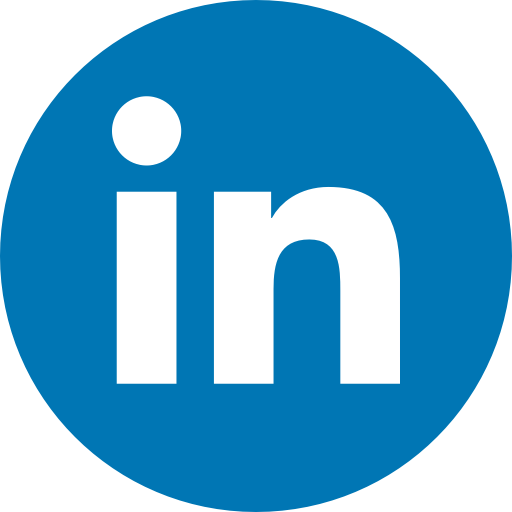
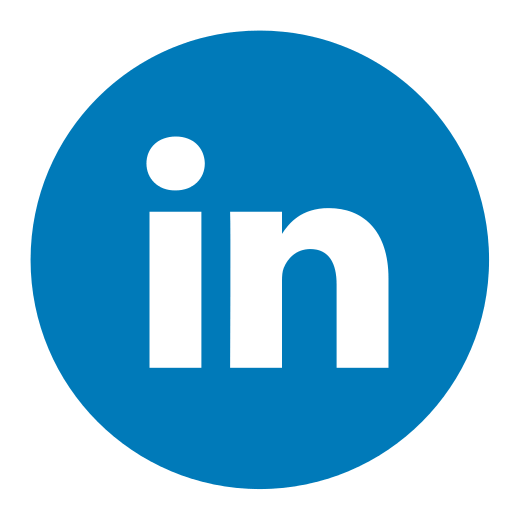
Added mail link

Changed region(s): [[0.0, 0.0, 1.0, 1.0], [0.2188, 0.1875, 0.7812, 0.75]]

diff --git a/index.html b/index.html
@@ -68,12 +68,15 @@
                         My hobbies include fitness, competitive eSports gaming, fishing, swimming, and martial arts. I also
                         belong to Western Engineering's mars rover club and compete in intramurals.  
                     </p>
-                    <div class="d-flex social-links justify-content-around">
+                    <div class="d-flex social-links justify-content-center">
                         <a href="https://github.com/kiefer6451">
                             <img id="social-github" src="./assets/images/social-github.png">
                         </a>
                         <a href="https://www.linkedin.com/in/eric-kiefer-b8174915b">
-                            <img id="social-linked-in" src="./assets/images/social-linked-in.png">
+                            <img id="social-linked-in" src="./assets/images/social-linked-in.jpeg">
+                        </a>
+                        <a href="mailto:ekiefer@uwo.ca">
+                            <img id="social-outlook" src="./assets/images/social-outlook.png">
                         </a>
                     </div>                    
                 </div>

diff --git a/style.css b/style.css
@@ -69,9 +69,11 @@ hr {
 }
 
 .social-links a img{
-    height: 5em;
-    width: 5em;
-    border-radius: 5em;
+    height: 4.5em;
+    width: 4.5em;
+    border-radius: 4.5em;
+    margin-right: 1em;
+    margin-left: 1em;
 }
 
 #social-github:hover{
@@ -83,7 +85,7 @@ hr {
 }
 
 #projects{
-    background-color: #333333;
+    background-color: #111111;
 }
 
 .projects-title{
